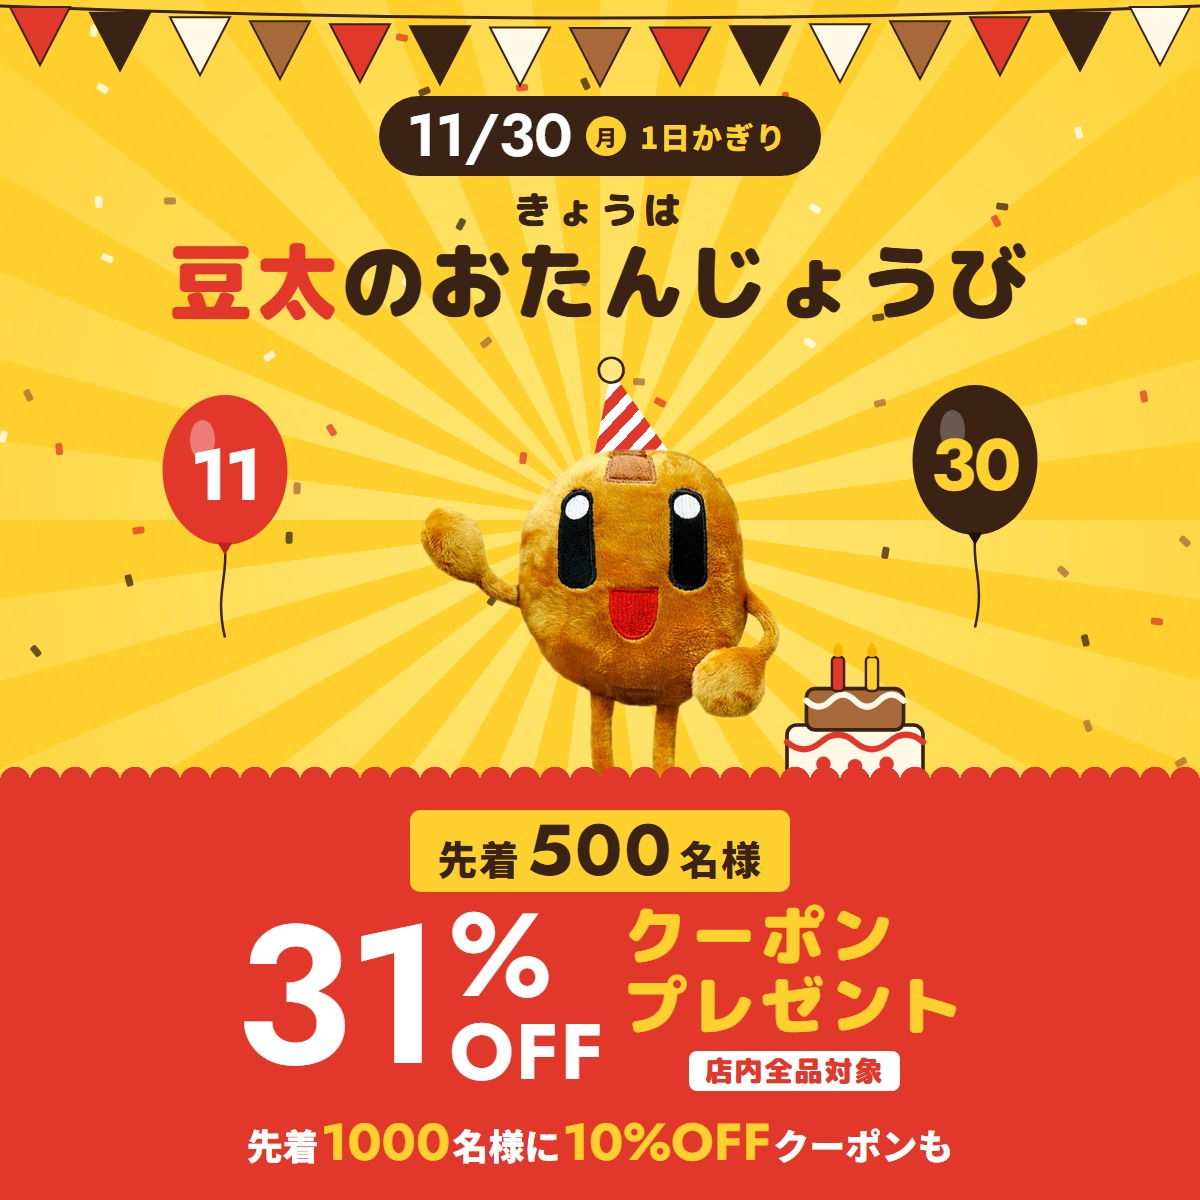
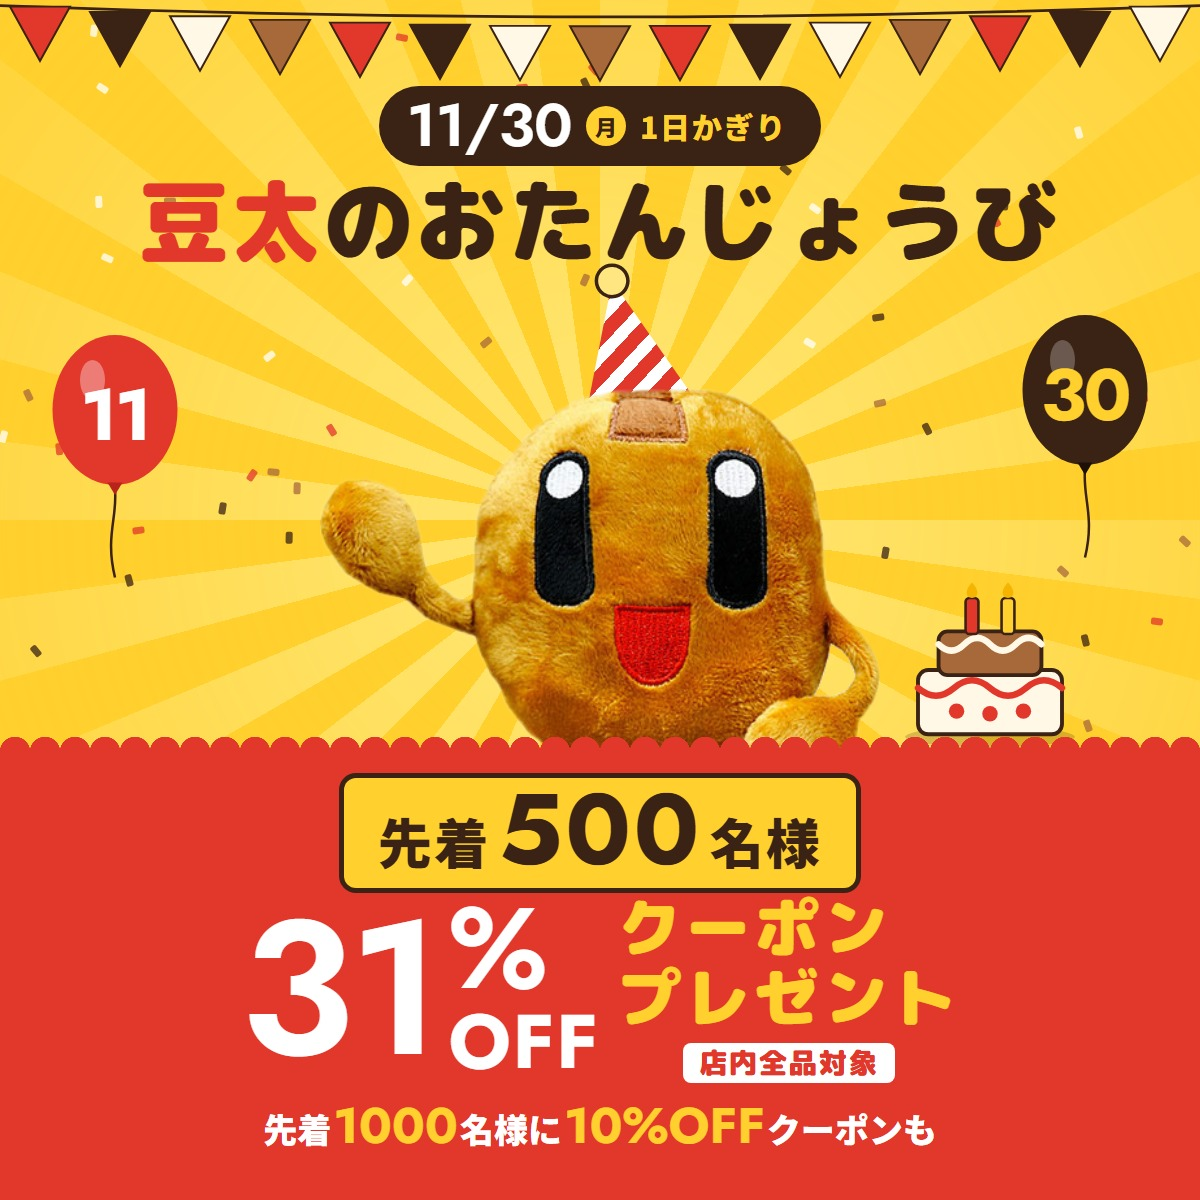
style: 誘導バナーの豆太と先着500名様を大きく、余白を詰める

diff --git a/banner/banner.html b/banner/banner.html
@@ -58,12 +58,12 @@ i{font-style:normal}
 .s900{width:1600px;height:900px}
 .s900 .burst{left:-1200px;top:-1200px;margin:0;transform:translate(470px,560px)}
 .s900 .garland{height:96px}
-.s900 .who{left:120px;bottom:-14px;width:460px;height:456px}
-.s900 .hat{font-size:80px;left:47%;top:-96px;width:104px;height:122px}
-.s900 .bal1{left:28px;top:150px;width:150px}
-.s900 .bal2{left:600px;top:130px;width:150px}
-.s900 .cake{left:540px;bottom:18px;width:180px}
-.s900 .col{position:absolute;left:740px;right:36px;top:92px;bottom:30px;z-index:2;display:flex;flex-direction:column;align-items:center;justify-content:space-between;text-align:center}
+.s900 .who{left:40px;bottom:-40px;width:660px;height:654px}
+.s900 .hat{font-size:104px;left:47%;top:-124px;width:136px;height:160px}
+.s900 .bal1{left:16px;top:110px;width:140px}
+.s900 .bal2{left:596px;top:110px;width:140px}
+.s900 .cake{left:560px;bottom:12px;width:170px}
+.s900 .col{position:absolute;left:740px;right:30px;top:90px;bottom:28px;z-index:3;display:flex;flex-direction:column;align-items:center;text-align:center}
 .s900 .date{gap:14px;padding:10px 34px 10px 28px}
 .s900 .date b{font-size:60px}
 .s900 .date .w{width:40px;height:40px;font-size:22px}
@@ -71,11 +71,11 @@ i{font-style:normal}
 .s900 .ttl small{font-size:36px}
 .s900 .ttl small{margin-top:10px}
 .s900 .ttl strong{display:block;font-size:80px;margin-top:2px}
-.s900 .cp{width:100%;border-radius:24px;padding:24px 20px 26px;box-shadow:0 0 0 6px var(--br)}
-.s900 .lim{gap:6px;font-size:40px;padding:4px 26px 6px;border-radius:10px}
-.s900 .lim b{font-size:74px}
-.s900 .row{gap:16px;margin-top:8px}
-.s900 .off{font-size:208px}
+.s900 .cp{flex:1;margin-top:18px;width:100%;border-radius:24px;padding:18px 20px 20px;box-shadow:0 0 0 6px var(--br);display:flex;flex-direction:column;align-items:center;justify-content:center}
+.s900 .lim{gap:8px;font-size:54px;padding:4px 34px 8px;border-radius:12px;box-shadow:0 0 0 5px var(--br)}
+.s900 .lim b{font-size:104px}
+.s900 .row{gap:16px;margin-top:6px}
+.s900 .off{font-size:200px}
 .s900 .c{font-size:66px;text-align:left}
 .s900 .all{font-size:32px;padding:2px 16px;border-radius:8px;margin-top:10px}
 .s900 .sub{margin-top:16px;font-size:34px;border-top:3px dashed #ffffff99;padding-top:12px}
@@ -85,59 +85,59 @@ i{font-style:normal}
 .s311{width:1600px;height:311px}
 .s311 .burst{left:-1200px;top:-1200px;transform:translate(260px,200px)}
 .s311 .garland{display:none}
-.s311 .who{left:88px;bottom:-10px;width:262px;height:260px}
-.s311 .hat{font-size:46px;left:46%;top:-56px;width:60px;height:70px}
-.s311 .bal1{left:14px;top:8px;width:84px}
-.s311 .bal2{left:352px;top:6px;width:84px}
+.s311 .who{left:76px;bottom:-44px;width:304px;height:301px}
+.s311 .hat{font-size:52px;left:46%;top:-50px;width:66px;height:76px}
+.s311 .bal1{left:6px;top:10px;width:84px}
+.s311 .bal2{left:372px;top:8px;width:84px}
 .s311 .cake{display:none}
 .s311 .col,.s1200 .col{display:contents}
-.s311 .head{position:absolute;left:432px;width:540px;top:0;bottom:0;z-index:2;display:flex;flex-direction:column;align-items:center;justify-content:center;gap:10px;text-align:center}
+.s311 .head{position:absolute;left:418px;width:546px;top:0;bottom:0;z-index:2;display:flex;flex-direction:column;align-items:center;justify-content:center;gap:10px;text-align:center}
 .s311 .date{gap:10px;padding:7px 24px 7px 20px}
 .s311 .date b{font-size:50px}
 .s311 .date .w{width:32px;height:32px;font-size:18px}
 .s311 .date span{font-size:24px}
 .s311 .ttl small{font-size:28px}
 .s311 .ttl strong{display:block;font-size:50px;letter-spacing:.04em;margin-top:2px}
-.s311 .cp{position:absolute;z-index:3;right:0;top:0;bottom:0;width:620px;display:flex;flex-direction:column;align-items:center;justify-content:center;padding:0 24px}
+.s311 .cp{position:absolute;z-index:3;right:0;top:0;bottom:0;width:630px;display:flex;flex-direction:column;align-items:center;justify-content:center;padding:0 20px}
 .s311 .cp::before{content:"";position:absolute;left:-20px;top:0;bottom:0;width:22px;
   background:radial-gradient(circle at 22px 13px,var(--red) 12px,transparent 12.5px);background-size:22px 26px}
-.s311 .lim{gap:4px;font-size:28px;padding:2px 20px 4px;border-radius:8px}
-.s311 .lim b{font-size:48px}
-.s311 .row{gap:12px;margin-top:4px}
-.s311 .off{font-size:124px}
-.s311 .c{font-size:40px;text-align:left}
-.s311 .all{font-size:22px;padding:1px 10px;border-radius:6px;margin-top:6px}
-.s311 .sub{margin-top:6px;font-size:24px}
-.s311 .sub b{font-size:34px;margin:0 2px}
+.s311 .lim{gap:6px;font-size:40px;padding:0 26px 4px;border-radius:10px;box-shadow:0 0 0 4px var(--br)}
+.s311 .lim b{font-size:74px}
+.s311 .row{gap:12px;margin-top:2px}
+.s311 .off{font-size:116px}
+.s311 .c{font-size:38px;text-align:left}
+.s311 .all{font-size:20px;padding:0 10px;border-radius:6px;margin-top:4px}
+.s311 .sub{margin-top:2px;font-size:22px}
+.s311 .sub b{font-size:32px;margin:0 2px}
 
 /* ===== 1200x1200 ===== */
 .s1200{width:1200px;height:1200px}
 .s1200 .burst{left:-1200px;top:-1200px;transform:translate(600px,520px)}
-.s1200 .garland{height:96px}
-.s1200 .head{position:absolute;left:0;right:0;top:96px;z-index:2;text-align:center}
+.s1200 .garland{height:90px}
+.s1200 .head{position:absolute;left:0;right:0;top:86px;z-index:2;text-align:center}
 .s1200 .date{gap:14px;padding:10px 34px 10px 28px}
 .s1200 .date b{font-size:60px}
 .s1200 .date .w{width:40px;height:40px;font-size:22px}
 .s1200 .date span{font-size:30px}
-.s1200 .ttl{margin-top:12px}
-.s1200 .ttl small{font-size:38px}
-.s1200 .ttl strong{display:block;font-size:84px;margin-top:2px}
-.s1200 .who{left:50%;margin-left:-180px;top:448px;width:360px;height:357px}
-.s1200 .hat{font-size:66px;left:47%;top:-80px;width:86px;height:100px}
-.s1200 .bal1{left:150px;top:390px;width:150px}
-.s1200 .bal2{right:150px;top:380px;width:150px}
-.s1200 .cake{left:770px;top:640px;width:170px}
-.s1200 .cp{position:absolute;left:0;right:0;bottom:0;height:420px;padding:30px 40px 0;z-index:3}
+.s1200 .ttl{margin-top:4px}
+.s1200 .ttl small{display:none}
+.s1200 .ttl strong{display:block;font-size:90px;margin-top:0}
+.s1200 .who{left:50%;margin-left:-280px;top:388px;width:560px;height:554px}
+.s1200 .hat{font-size:88px;left:47%;top:-110px;width:114px;height:134px}
+.s1200 .bal1{left:40px;top:330px;width:150px}
+.s1200 .bal2{right:40px;top:310px;width:150px}
+.s1200 .cake{left:900px;top:580px;width:180px}
+.s1200 .cp{position:absolute;left:0;right:0;bottom:0;height:450px;padding:28px 30px 0;z-index:3}
 .s1200 .cp::before{content:"";position:absolute;left:0;right:0;top:-18px;height:20px;
   background:radial-gradient(circle at 15px 20px,var(--red) 15px,transparent 15.5px);background-size:30px 20px}
-.s1200 .lim{gap:6px;font-size:40px;padding:4px 28px 6px;border-radius:10px}
-.s1200 .lim b{font-size:72px}
-.s1200 .row{gap:18px;margin-top:8px}
-.s1200 .off{font-size:196px}
+.s1200 .lim{gap:8px;font-size:54px;padding:2px 34px 8px;border-radius:12px;box-shadow:0 0 0 5px var(--br)}
+.s1200 .lim b{font-size:100px}
+.s1200 .row{gap:18px;margin-top:4px}
+.s1200 .off{font-size:190px}
 .s1200 .c{font-size:64px;text-align:left}
 .s1200 .all{font-size:28px;padding:2px 16px;border-radius:8px;margin-top:10px}
-.s1200 .sub{margin-top:18px;font-size:36px}
-.s1200 .sub b{font-size:52px;margin:0 2px}
+.s1200 .sub{margin-top:10px;font-size:34px}
+.s1200 .sub b{font-size:50px;margin:0 2px}
 </style>
 </head>
 <body>
